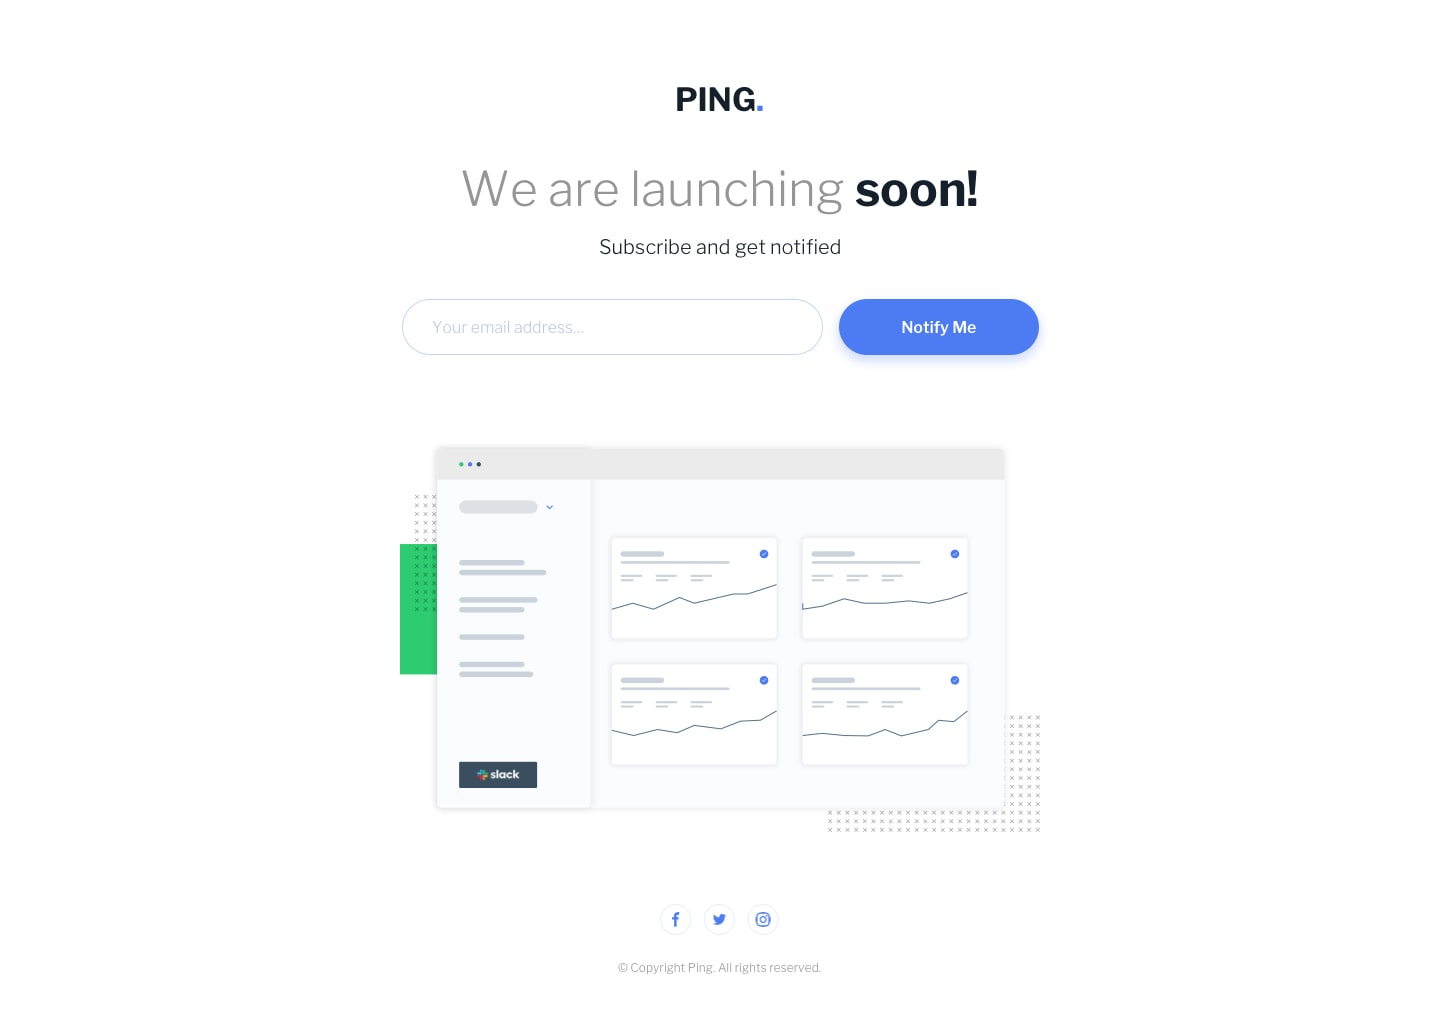
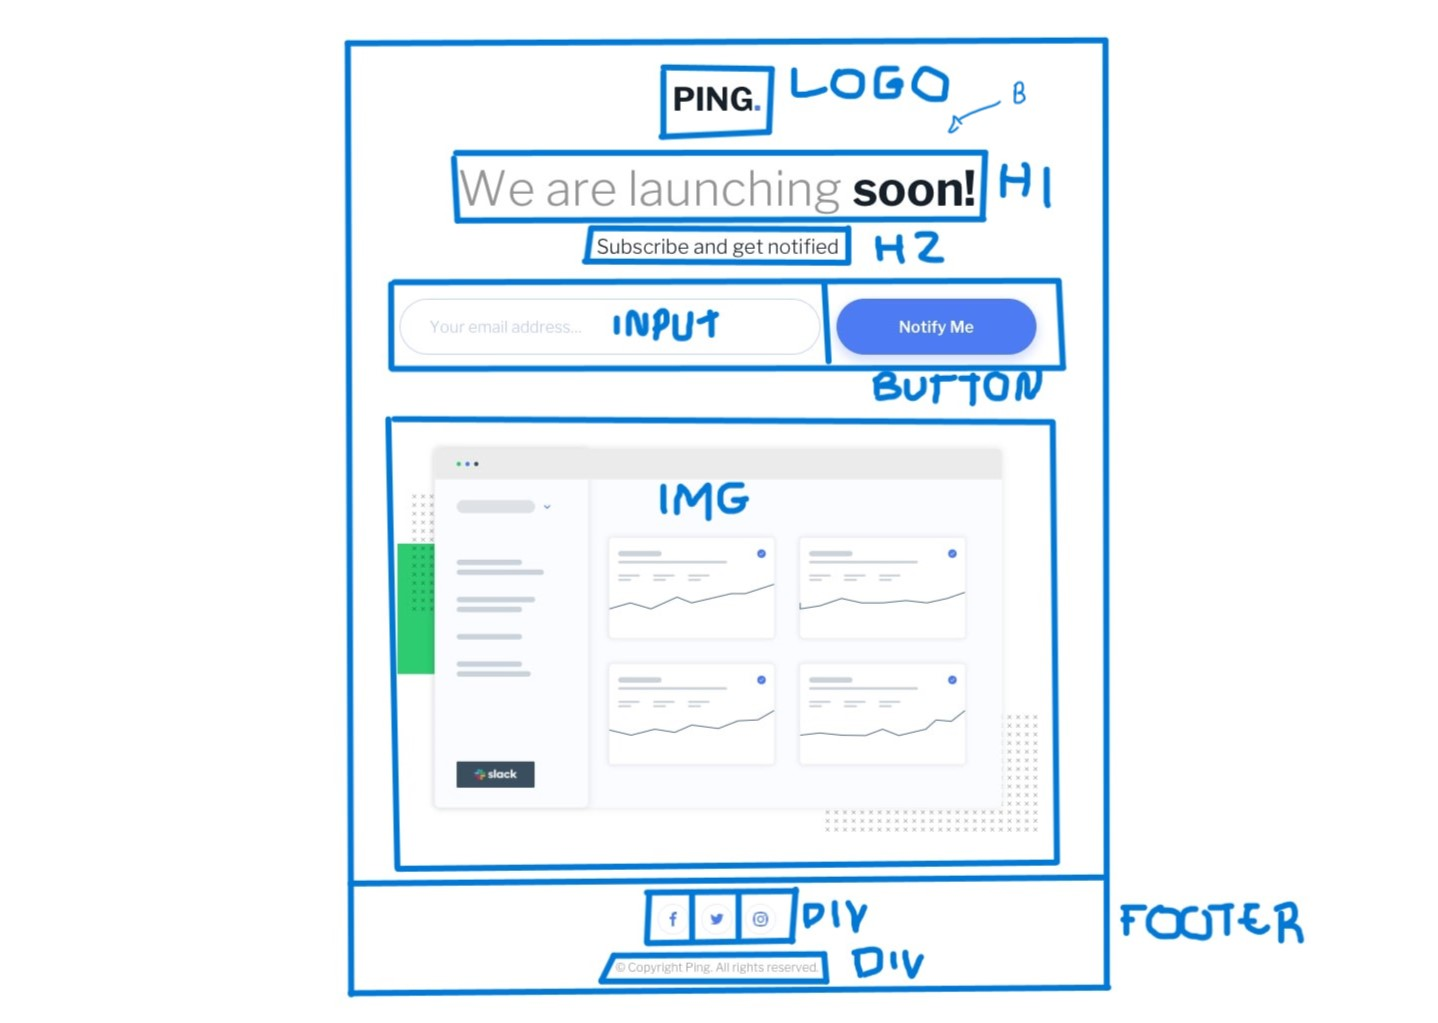
Feita parte de HTML e CSS da página.

Changed region(s): [[0.2142, 0.0303, 0.9179, 1.0], [0.459, 0.4545, 0.5202, 0.5152], [0.3366, 0.7273, 0.3672, 0.7576]]

diff --git a/index.html b/index.html
@@ -8,27 +8,46 @@
   
   <title>Frontend Mentor | Ping coming soon page</title>
 
-  <!-- Feel free to remove these styles or customise in your own stylesheet 👍 -->
-  <style>
-    .attribution { font-size: 11px; text-align: center; }
-    .attribution a { color: hsl(228, 45%, 44%); }
-  </style>
+  <link rel="stylesheet" href="style.css" type="text/css">
 </head>
 <body>
 
-  We are launching soon!
+  <!--sectionPáginaPrincipal-->
 
-  Subscribe and get notified
+    <section>
+      <img src="./images/logo.svg" alt="logo" id="logo">
 
-  Notify Me
+      <h1>We are launching <b>soon!</b></h1>
 
-  &copy; Copyright Ping. All rights reserved.
+      <h2>Subscribe and get notified!</h2>
 
-  <footer>
-    <p class="attribution">
-      Challenge by <a href="https://www.frontendmentor.io?ref=challenge" target="_blank">Frontend Mentor</a>. 
-      Coded by <a href="#">Your Name Here</a>.
-    </p>
-  </footer>
-</body>
+      <form action="">
+          <input type="email" id="inputEmail" placeholder="Your email address...">
+          <input type="button" value="Notify Me" id="inputButton">
+      </form>
+
+      <img src="./images/illustration-dashboard.png" alt="Imagem do dashboard" id="imgDashboard">
+    </section>
+
+  <!--Footer-->
+
+    <footer>
+
+      <div id="redesSociais">
+
+      </div>
+
+      <div id="copyrightDiv">
+        &copy; Copyright Ping. All rights reserved.
+      </div>
+
+      <p class="attribution">
+        Challenge by <a href="https://www.frontendmentor.io?ref=challenge" target="_blank">Frontend Mentor</a>. 
+        Coded by <a href="http://www.github.com/dinottom8/">Mateus Dinotto</a>.
+      </p>
+
+    </footer>
+
+    <script src="app.js"></script>
+
 </html>

diff --git a/style.css b/style.css
@@ -1,0 +1,96 @@
+@import url('https://fonts.googleapis.com/css2?family=Libre+Franklin:wght@300;600;700&display=swap');
+
+.attribution { font-size: 11px; text-align: center; }
+.attribution a { color: hsl(228, 45%, 44%); }
+
+* {
+    font-family: 'Libre Franklin', sans-serif;
+}
+
+body {
+    width: 100%;
+    height: 100vh;
+    display: flex;
+    flex-direction: column;
+    justify-content: center;
+    align-items: center;
+    overflow: hidden;
+}
+
+section {
+    display: flex;
+    justify-content: center;
+    align-items: center;
+    flex-direction: column;
+    height: 90vh;
+    width: 70%;
+}
+
+#logo {
+    margin-top: 4em;
+}
+
+h1 {
+    font-weight: 100;
+    color: gray;
+    font-size: 2em;
+}
+
+b {
+    color: black;
+}
+
+h2 {
+    font-weight: 100;
+    font-size: 1em;
+    margin-bottom: 2em;
+}
+
+form {
+    display: flex;
+    flex-direction: row;
+    gap: 1em;
+}
+
+#inputEmail {
+    border: 1pt solid gray;
+    border-radius: 50vh;
+    width: 35em;
+    padding-left: 2em;
+}
+
+#inputButton {
+    background-color: hsl(223, 87%, 63%);
+    border: none;
+    width: 10em;
+    height: 4em;
+    border-radius: 50vh;
+    color: white;
+    font-weight: 600;
+}
+
+footer {
+    width: 100%;
+    height: 10vh;
+    display: flex;
+    flex-direction: column;
+    justify-content: center;
+    align-items: center;
+}
+
+#redesSociais {
+    display: flex;
+    flex-direction: row;
+    justify-content: space-around;
+    align-items: center;
+    width: 30%;
+}
+
+#copyrightDiv {
+    color: gray;
+}
+
+#imgDashboard {
+    height: 50vh;
+    margin-top: 2em;
+}
